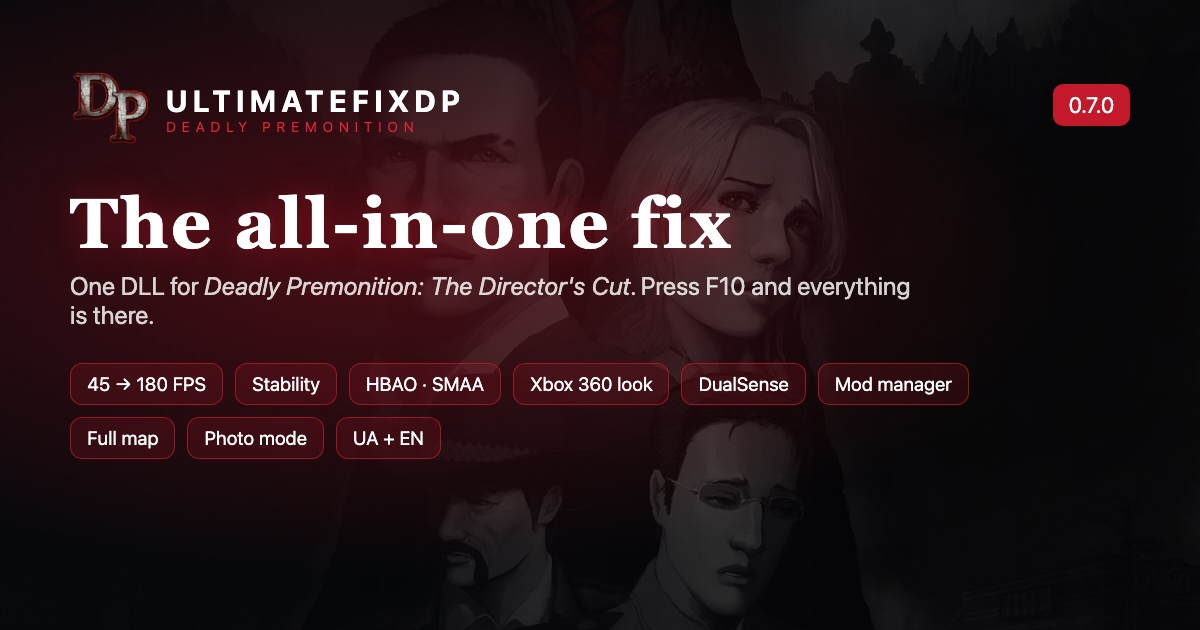
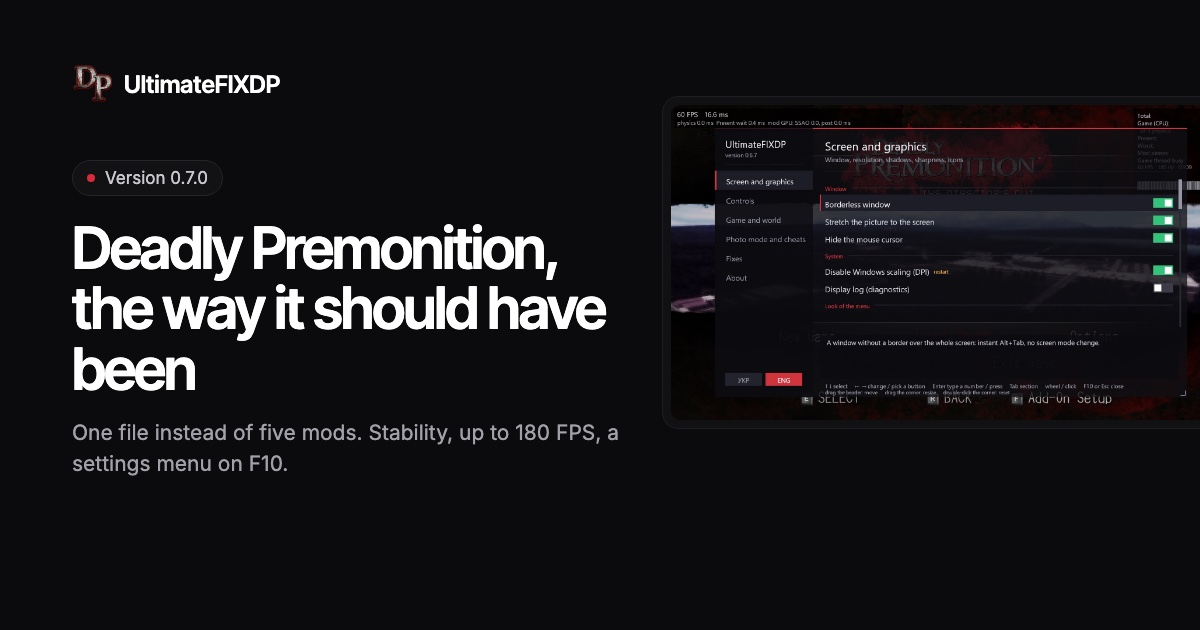
Share image in the calm style

diff --git a/tools/og.html b/tools/og.html
@@ -1,17 +1,17 @@
-<!doctype html><html><head><meta charset="utf-8"><style>
-html,body{margin:0;width:1200px;height:630px;overflow:hidden;background:#07080b;font-family:'Segoe UI',system-ui,-apple-system,sans-serif}
-.bg{position:absolute;inset:0;background:url(../bg.jpg) center/cover;filter:brightness(.45) saturate(.9)}
-.g{position:absolute;inset:0;background:radial-gradient(ellipse at 30% 40%,rgba(196,25,43,.35),transparent 60%),linear-gradient(90deg,rgba(7,8,11,.92) 0%,rgba(7,8,11,.55) 60%,rgba(7,8,11,.2))}
-.c{position:absolute;left:70px;top:70px;right:70px;color:#fff}
-.logo{display:flex;align-items:center;gap:18px}.logo img{width:78px;height:78px;border-radius:16px}
-.logo b{font-size:30px;letter-spacing:.18em}.logo span{display:block;font-size:14px;letter-spacing:.4em;color:#e0243a}
-h1{font-family:Cinzel,'Trajan Pro',Georgia,serif;font-size:70px;line-height:1.02;margin:40px 0 12px;letter-spacing:.04em;text-shadow:0 0 30px rgba(196,25,43,.5)}
-p{font-size:25px;color:rgba(255,255,255,.82);margin:0 0 34px;max-width:860px}
-.chips{display:flex;flex-wrap:wrap;gap:12px;max-width:1000px}.chips i{font-style:normal;font-size:19px;padding:9px 16px;border-radius:12px;border:1px solid rgba(196,25,43,.7);background:rgba(196,25,43,.16)}
-.v{position:absolute;right:70px;top:84px;font-size:22px;color:#fff;padding:8px 16px;border-radius:10px;background:#c4192b}
-</style></head><body><div class="bg"></div><div class="g"></div>
-<div class="v">0.7.0</div>
-<div class="c"><div class="logo"><img src="../logo.png"><div><b>ULTIMATEFIXDP</b><span>DEADLY PREMONITION</span></div></div>
-<h1>The all-in-one fix</h1><p>One DLL for <em>Deadly Premonition: The Director's Cut</em>. Press F10 and everything is there.</p>
-<div class="chips"><i>45 → 180 FPS</i><i>Stability</i><i>HBAO · SMAA</i><i>Xbox 360 look</i><i>DualSense</i><i>Mod manager</i><i>Full map</i><i>Photo mode</i><i>UA + EN</i></div></div>
+<!doctype html><html><head><meta charset="utf-8">
+<link href="https://fonts.googleapis.com/css2?family=Inter+Tight:wght@600&family=Inter:wght@400;500&display=swap" rel="stylesheet">
+<style>
+html,body{margin:0;width:1200px;height:630px;overflow:hidden;background:#0B0B0C;font-family:Inter,system-ui,sans-serif;color:#EDEDEE}
+.c{position:absolute;left:72px;top:64px;width:560px}
+.b{display:flex;align-items:center;gap:12px;font-family:'Inter Tight',Inter,sans-serif;font-weight:600;font-size:24px;color:#fff}.b img{width:40px;height:40px;border-radius:9px}
+.p{display:inline-flex;align-items:center;gap:10px;margin-top:56px;padding:7px 14px;border-radius:999px;border:1px solid #26262A;background:#121214;color:#C8C8CE;font-size:17px}.p i{width:8px;height:8px;border-radius:50%;background:#D92A3C}
+h1{font-family:'Inter Tight',Inter,sans-serif;font-weight:600;font-size:58px;line-height:1.04;letter-spacing:-.035em;color:#fff;margin:22px 0 18px}
+p{font-size:21px;line-height:1.5;color:#A1A1A8;margin:0}
+.s{position:absolute;right:-40px;top:96px;width:560px;padding:8px;border-radius:16px;border:1px solid #1E1E21;background:#111113}.s img{display:block;width:100%;border-radius:9px}
+</style></head><body>
+<div class="c"><div class="b"><img src="../logo.png">UltimateFIXDP</div>
+<div class="p"><i></i>Version 0.7.0</div>
+<h1>Deadly Premonition, the way it should have been</h1>
+<p>One file instead of five mods. Stability, up to 180 FPS, a settings menu on F10.</p></div>
+<div class="s"><img src="../screenshots/menu-graphics.jpg"></div>
 </body></html>
